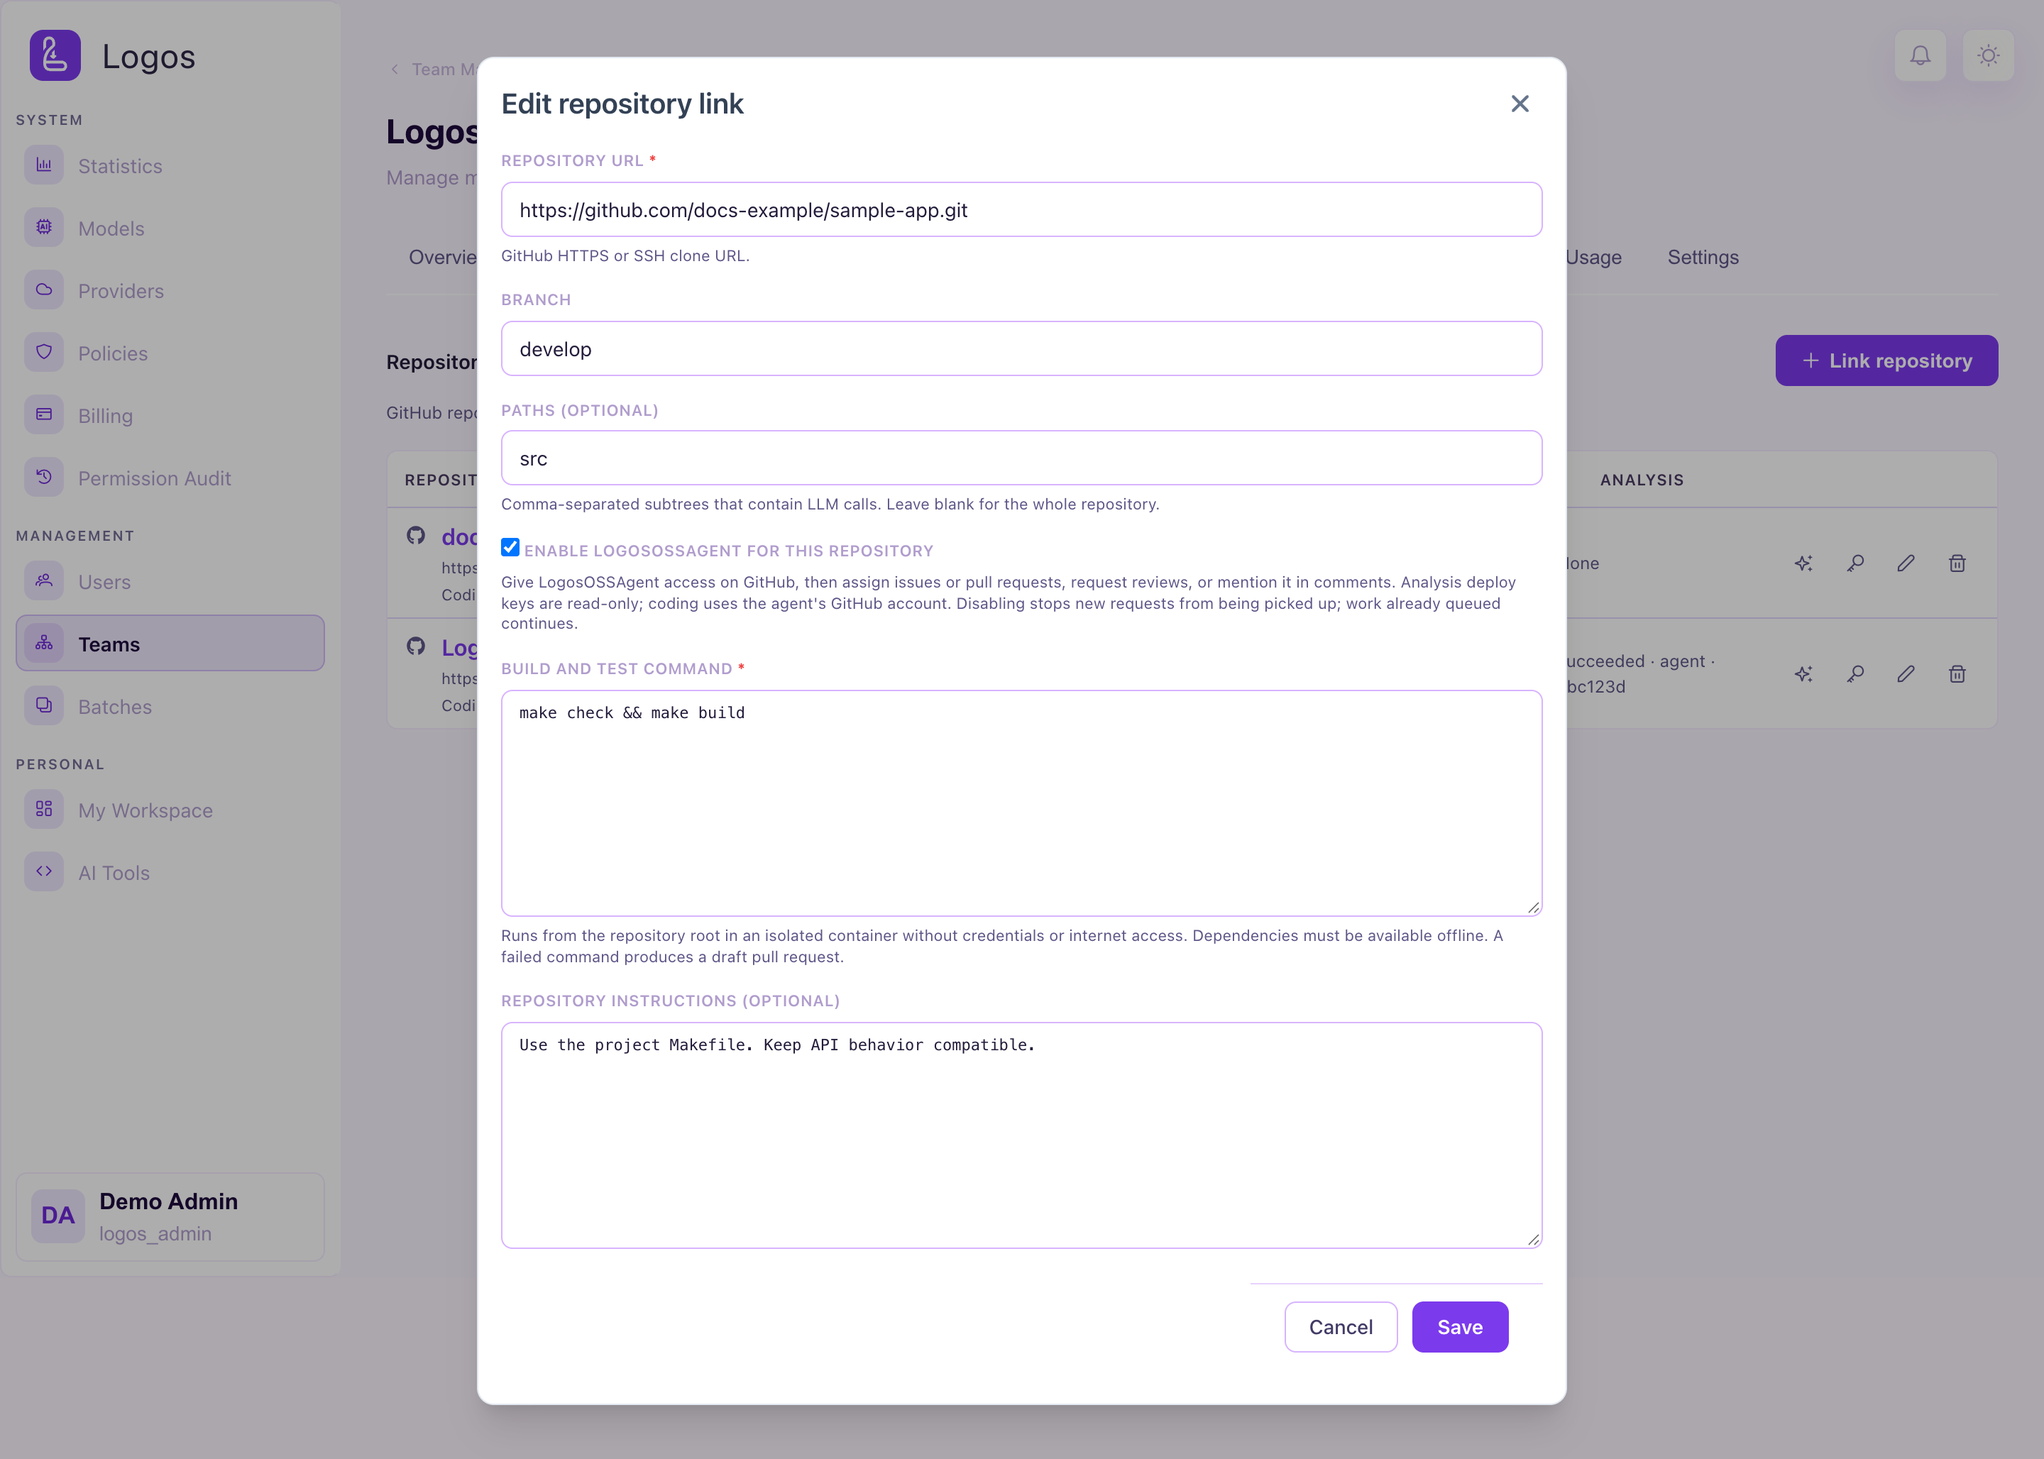
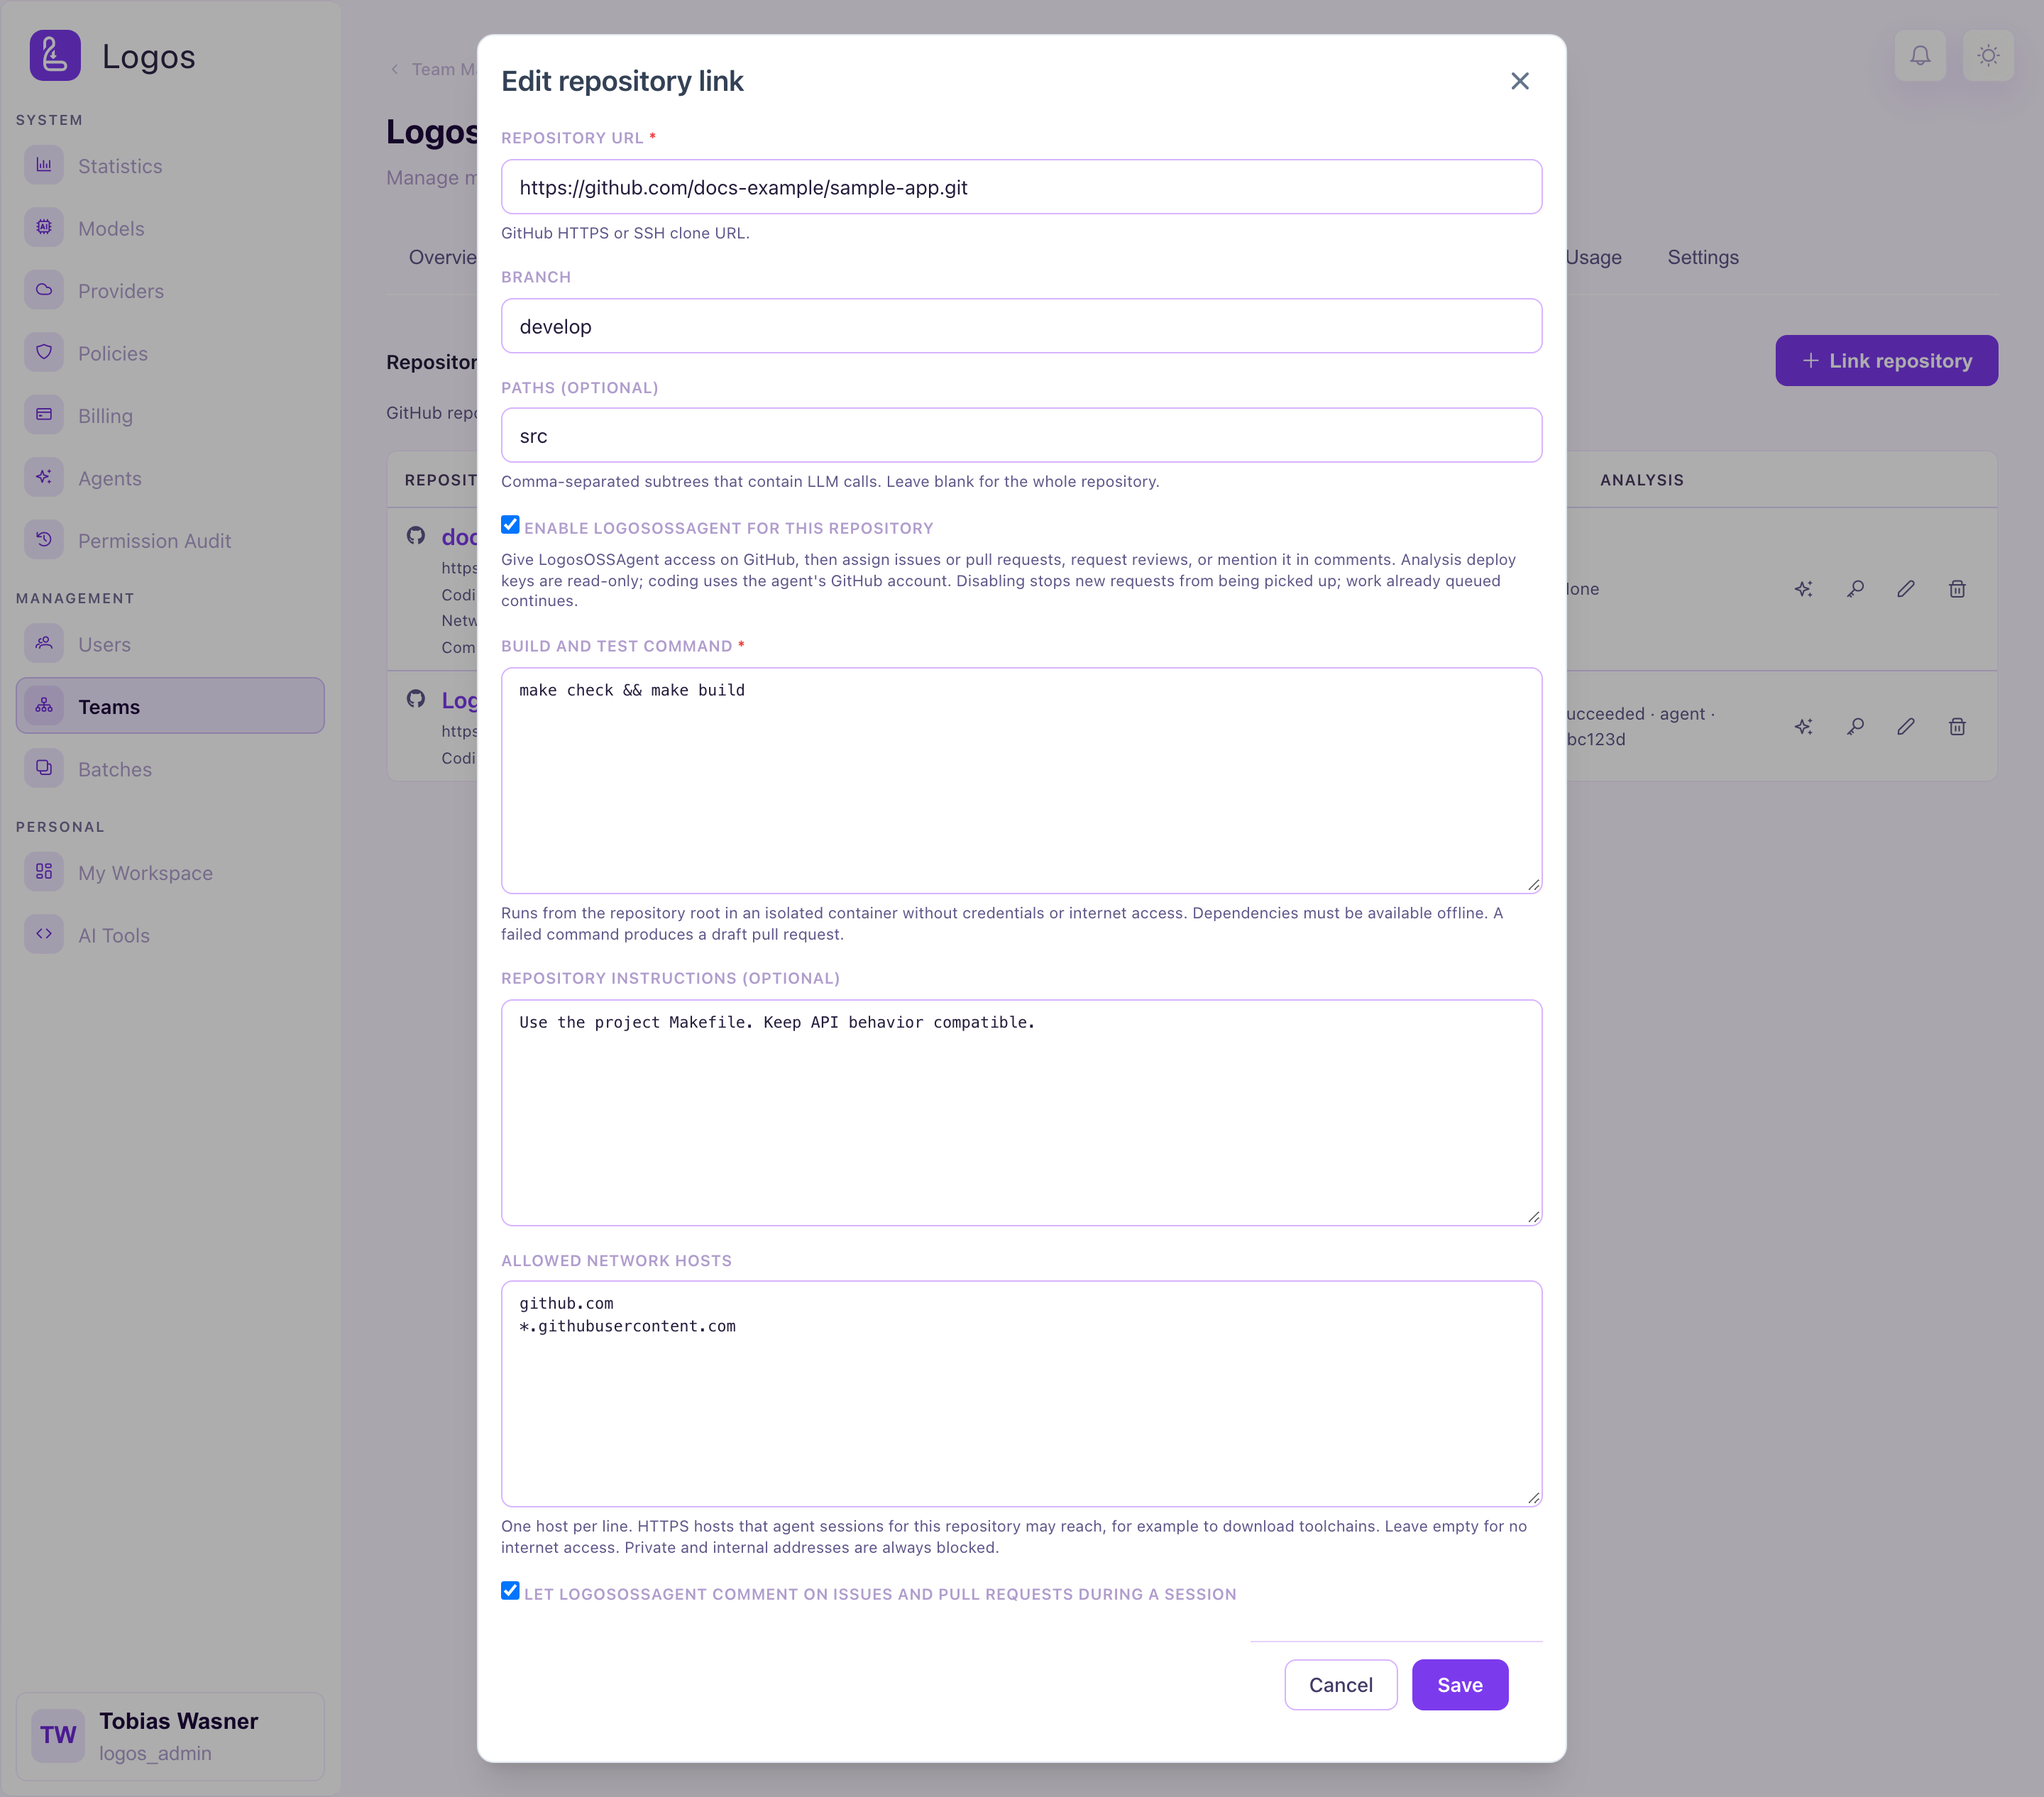
Refresh role-guide screenshots for linked-repository sessions
Claude-Session: https://claude.ai/code/session_01BzMqQCTft86AKEVvHfj2Pb

diff --git a/docs/AGENTS.md b/docs/AGENTS.md
@@ -207,6 +207,15 @@ is on `:18085`, DB on `127.0.0.1:15432`. Tear down with
 `docker compose -f docker-compose.screenshots.yaml --project-name logos-doks down -v`
 when finished.
 
+The screenshots stack does not run the agent runner, so the capture script
+skips the `logos-admin-agents*.png` shots unless you name them. For these
+shots, serve the `logos-agent` API against `doks-db` (`DB_PORT=15432`)
+without its scheduler, because the scheduler starts the seeded sessions. Add a
+`/api/agent` entry (path rewrite to `/`) before `/api` in the proxy
+configuration. Set `LOGOS_AGENT_API_KEY` to a key of the team **Logos** that
+reaches only the models of **Docs Local Worker**; otherwise the page shows a
+model policy error.
+
 The ordinary `docker-compose.dev.yaml` + `ng serve` on `:4200` also works; point
 `psql` at that stack's DB instead of `15432`.
 
@@ -241,6 +250,8 @@ capturing.
    providers and three models (capabilities, aliases, prices); policies;
    priced `log_entry` rows (billing + statistics + My Workspace usage bars);
    one `in_progress` and one `completed` batch; agent workspaces/sessions;
+   the linked repository `docs-example/sample-app` with the coding agent,
+   2 allowed network hosts and the comment permission, and 1 session on it;
    and team budget / default rate limits for the team-detail overview. It
    also creates a fourth, catalog-only model (`gpt-4o-mini`), gives it usage,
    and deletes it again — the delete trigger keeps that usage under the
@@ -341,7 +352,8 @@ flows use a **concept** name (no role prefix); role-only list pages keep the
 | `logos-admin-security-intake.png` | `tobias.wasner` | `/agents/security` — Report an important incident expanded; `seed/security-incidents.sql` after the role seed | `roles/logos-admin.md#security-incidents` |
 | `logos-admin-security-evidence.png` | `tobias.wasner` | `/agents/security` — Evidence & history expanded; `seed/security-incidents.sql` after the role seed | `roles/logos-admin.md#security-incidents` |
 | `logos-admin-security-confirm.png` | `tobias.wasner` | `/agents/security` — Confirm resolved form; `seed/security-incidents.sql` after the role seed | `roles/logos-admin.md#security-incidents` |
-| `logos-admin-agents.png` | `tobias.wasner` | `/agents` | `roles/logos-admin.md` |
+| `logos-admin-agents.png` | `tobias.wasner` | `/agents` (needs the agent runner API on `/api/agent`) | `roles/logos-admin.md#agent-sessions` |
+| `logos-admin-agents-new-session.png` | `tobias.wasner` | `/agents` — **New session**, **Repository** `docs-example/sample-app (develop)` selected (needs the agent runner API on `/api/agent`) | `roles/logos-admin.md#start-a-session` |
 | `logos-admin-my-workspace.png` | `tobias.wasner` | `/my-workspace` | `roles/logos-admin.md` |
 | `app-admin-models.png` | `alexandra.szuminska` | `/models` | `roles/app-admin.md` |
 | `app-admin-user-management.png` | `alexandra.szuminska` | `/user-management` | `roles/app-admin.md` |

diff --git a/docs/roles/logos-admin.md b/docs/roles/logos-admin.md
@@ -657,17 +657,30 @@ that is queued or that runs. The results go to the teams as proposals on their
 
 ### Start a Session
 
-Select **New session** to queue a manual session. In **Repository**, select
-the repository that the agent changes:
+To queue a manual session, do these steps:
 
-- **LogosOSS/Logos (platform repository)** is the default.
-- Each linked team repository with the coding agent enabled shows as
-  `owner/name (branch)`.
+1. Select **New session**. The **Start a session** form opens.
+2. In **Repository**, select the repository that the agent changes:
+   - **LogosOSS/Logos (platform repository)** is the default.
+   - Each linked team repository with the coding agent enabled shows as
+     `owner/name (branch)`.
+3. In **Workspace**, select a workspace. One workspace runs one session at a time.
+4. In **Task**, write the change that you want.
+5. Select **Queue session**.
 
-For a linked repository, the session works on that repository and its branch.
-**Deploy to the dev environment afterwards** and **Screenshot paths** are
-available only for the platform repository. The session list and the session
-details show the repository of a session on a linked repository.
+![Start a session form with the linked repository docs-example/sample-app selected](/img/roles/logos-admin-agents-new-session.png)
+
+The example shows the linked repository `docs-example/sample-app` with the
+branch `develop`. For a linked repository, the session works on that
+repository and its branch. The form disables **Deploy to the dev environment
+afterwards** and **Screenshot paths**, because these options are available
+only for the platform repository. A note below the check boxes gives this
+reason.
+
+The session list and the session details show the repository of a session on
+a linked repository. In the session list, the repository shows next to the
+workspace, for example `docs-example/sample-app` in the **Finished** section
+of the **Agent Sessions** page image.
 
 A Logos Admin also sets the network hosts and the comment permission of each
 linked repository. Edit the repository link on the **Repositories** tab of the

diff --git a/docs/roles/app-admin.md b/docs/roles/app-admin.md
@@ -147,6 +147,12 @@ Only a Logos Admin can change them:
 | **Allowed network hosts** | The HTTPS hosts that agent sessions for this repository can reach, for example to download toolchains. Write one host per line. If the list is empty, then sessions have no internet access. |
 | **Let LogosOSSAgent comment on issues and pull requests during a session** | If selected, the agent can comment on issues and pull requests of this repository while a session runs. The comments use the GitHub account of the agent. |
 
+The screenshot in [Enable the Coding Agent](#enable-the-coding-agent) shows
+the two settings as a Logos Admin sees them. An App Admin sees them in the
+read-only block **Agent sandbox permissions** of the dialog. If a link has
+these permissions, then the list shows, for example, **Network: 2 hosts** and
+**Comments during sessions: Allowed**.
+
 A host is a DNS name, for example `github.com`. A leading `*.` permits all
 subdomains, for example `*.githubusercontent.com`. Logos refuses a scheme, a
 port, a path, an IP address, `localhost` and a top-level wildcard such as
